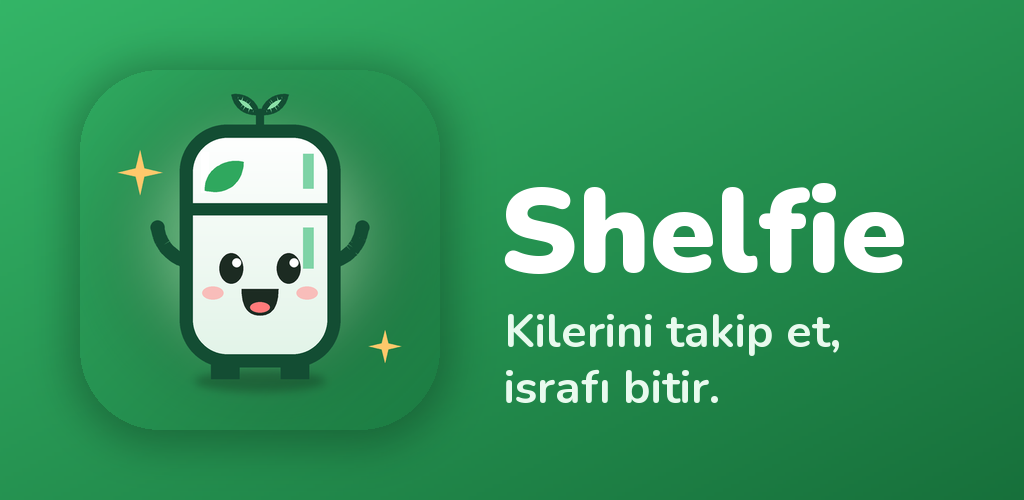
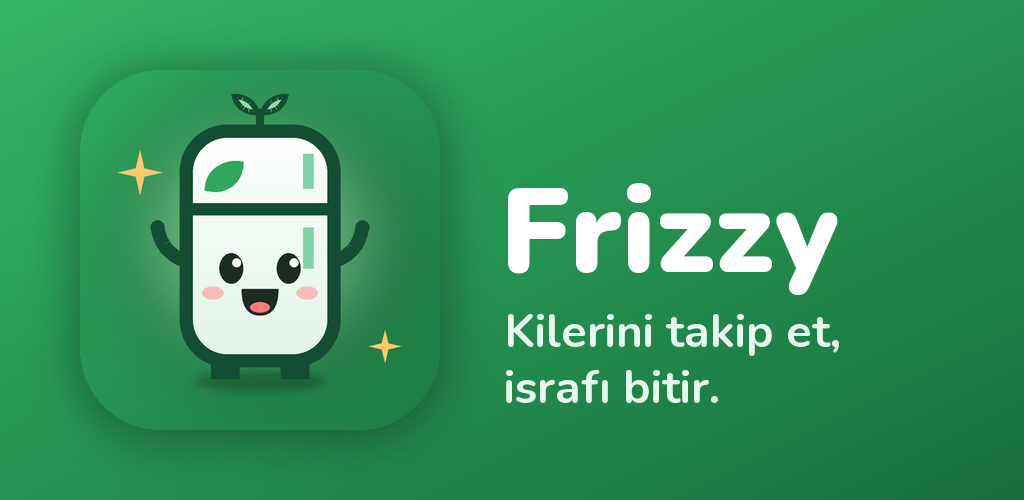
Rename the app to Frizzy
The app, Premium, widget, invite message and the web pages (home,
privacy, invite, panel, admin) now say Frizzy, after the mascot: Shelfie
is crowded on Play and taken as a Turkish mark. The feature graphic shows
the new name. The package id and code names stay as they are.

Changed region(s): [[0.4688, 0.36, 0.9062, 0.6], [0.5, 0.36, 0.5312, 0.39]]

diff --git a/backend/src/pages/privacy.ts b/backend/src/pages/privacy.ts
@@ -8,7 +8,7 @@ export const PRIVACY_HTML = `<!doctype html>
 <head>
 <meta charset="utf-8">
 <meta name="viewport" content="width=device-width, initial-scale=1">
-<title>Shelfie · Gizlilik politikası</title>
+<title>Frizzy · Gizlilik politikası</title>
 <style>
 	:root { --bg: #fff9f2; --ink: #2a2420; --muted: #7a6f66; --accent: #23974f; --line: #efe5d8; }
 	@media (prefers-color-scheme: dark) { :root { --bg: #15120f; --ink: #f6eee6; --muted: #b5a99c; --accent: #5bd48a; --line: #3a332c; } }
@@ -24,7 +24,7 @@ export const PRIVACY_HTML = `<!doctype html>
 <h1>Gizlilik politikası</h1>
 <p class="muted">Son güncelleme: 20 Ekim 2026</p>
 
-<p>Shelfie, evdeki yiyeceklerini takip edip israfı azaltman için var. Bu sayfa hangi verileri neden işlediğimizi anlatır. Kısaca: hesap açmadan kullanırsan verilerin yalnızca telefonunda kalır; reklam ya da veri satışı yoktur.</p>
+<p>Frizzy, evdeki yiyeceklerini takip edip israfı azaltman için var. Bu sayfa hangi verileri neden işlediğimizi anlatır. Kısaca: hesap açmadan kullanırsan verilerin yalnızca telefonunda kalır; reklam ya da veri satışı yoktur.</p>
 
 <h2>Telefonunda kalanlar</h2>
 <p>Kilerin, alışveriş listen, tariflerin, haftalık planın ve ayarların telefonundaki uygulama veritabanında tutulur. Çektiğin fotoğraflar uygulamanın kendi klasöründe saklanır; tarih okutmak için çekilenler okunduktan sonra silinir. Paketteki tarih telefonun içinde (Google ML Kit ile) okunur, fotoğraf hiçbir yere gönderilmez.</p>
@@ -45,7 +45,7 @@ export const PRIVACY_HTML = `<!doctype html>
 <p>Uygulamada Ayarlar → Hesap ve senkronizasyon → Hesabı sil ya da web panelindeki "Hesabımı sil" ile hesabın ve sunucudaki tüm verilerin hemen silinir. Telefondaki veriler uygulamayı kaldırınca silinir. Silinen kayıtların izleri en geç bir yılda temizlenir.</p>
 
 <h2>Çocuklar</h2>
-<p>Shelfie 13 yaşından küçükler için tasarlanmamıştır ve bilerek onlardan veri toplamayız.</p>
+<p>Frizzy 13 yaşından küçükler için tasarlanmamıştır ve bilerek onlardan veri toplamayız.</p>
 
 <h2>İletişim</h2>
 <p>Sorular ve silme talepleri için Google Play sayfamızdaki geliştirici e-posta adresine yazabilirsin.</p>
@@ -55,7 +55,7 @@ export const PRIVACY_HTML = `<!doctype html>
 <h1 lang="en">Privacy policy</h1>
 <p class="muted" lang="en">Last updated: 20 October 2026</p>
 <div lang="en">
-<p>Shelfie helps you track the food at home and waste less. Without an account your data stays on your phone. There are no ads and no data sales.</p>
+<p>Frizzy helps you track the food at home and waste less. Without an account your data stays on your phone. There are no ads and no data sales.</p>
 <h2>On your phone</h2>
 <p>Your pantry, shopping list, recipes, weekly plan and settings live in the app's database on your phone. Photos stay in the app's own folder; photos taken to read a date are deleted once read. Printed dates are read on the device (Google ML Kit) and never uploaded.</p>
 <h2>AI scans and recipes</h2>
@@ -67,7 +67,7 @@ export const PRIVACY_HTML = `<!doctype html>
 <h2>Deletion</h2>
 <p>Settings → Account & sync → Delete account in the app, or "Delete my account" in the web panel, deletes your account and all its server data at once. Data on the phone is removed when you uninstall the app. Traces of deleted records are purged within a year.</p>
 <h2>Children</h2>
-<p>Shelfie is not designed for children under 13 and we do not knowingly collect their data.</p>
+<p>Frizzy is not designed for children under 13 and we do not knowingly collect their data.</p>
 <h2>Contact</h2>
 <p>For questions or deletion requests, write to the developer email on our Google Play page.</p>
 </div>

diff --git a/backend/src/landing.ts b/backend/src/landing.ts
@@ -1,5 +1,5 @@
 /**
- * Served at `GET /`: the public front door. It says what Shelfie is and leads to the web panel
+ * Served at `GET /`: the public front door. It says what Frizzy is and leads to the web panel
  * (`/panel`, for signed-in users) and the privacy policy. Colours follow the app's theme.
  */
 export const LANDING_HTML = `<!doctype html>
@@ -7,8 +7,8 @@ export const LANDING_HTML = `<!doctype html>
 <head>
 <meta charset="utf-8">
 <meta name="viewport" content="width=device-width, initial-scale=1">
-<title>Shelfie</title>
-<meta name="description" content="Shelfie: mutfağındakileri çöpe atmak yerine yemene yardım eden uygulama.">
+<title>Frizzy</title>
+<meta name="description" content="Frizzy: mutfağındakileri çöpe atmak yerine yemene yardım eden uygulama.">
 <style>
 	:root {
 		--bg: #fff9f2;
@@ -71,7 +71,7 @@ export const LANDING_HTML = `<!doctype html>
 <main>
 	<section class="hero">
 		<!-- Frizzy as on the app icon: cheering, with a sprout. -->
-		<svg viewBox="22 12 64 80" role="img" aria-label="Frizzy, Shelfie'nin buzdolabı maskotu">
+		<svg viewBox="22 12 64 80" role="img" aria-label="Frizzy, buzdolabı maskotu">
 			<ellipse cx="54" cy="86" rx="16" ry="2.6" fill="#000" opacity="0.12"/>
 			<path d="M36.5,57Q30,55 29,48.5 M71.5,57Q78,55 79,48.5" stroke="#134d33" stroke-width="3.4" stroke-linecap="round" fill="none"/>
 			<path d="M42,80h7v5.5h-7z M59,80h7v5.5h-7z" fill="#134d33"/>
@@ -93,7 +93,7 @@ export const LANDING_HTML = `<!doctype html>
 			<path d="M30,33l1.2,3.3l3.3,1.2l-3.3,1.2l-1.2,3.3l-1.2,-3.3l-3.3,-1.2l3.3,-1.2z" fill="#ffc86b"/>
 		</svg>
 		<div>
-			<h1>Shelfie</h1>
+			<h1>Frizzy</h1>
 			<p class="tagline">Merhaba, ben Frizzy! Aldıklarını çöpe atmak yerine yemene yardım ederim.</p>
 			<div class="actions">
 				<a class="button" href="/panel">Web panele gir</a>
@@ -125,7 +125,7 @@ export const LANDING_HTML = `<!doctype html>
 		</article>
 	</section>
 
-	<footer>Shelfie bir Android uygulamasıdır. Verilerini web panelden de görebilir, düzenleyebilir ya da silebilirsin. <a href="/privacy">Gizlilik politikası</a></footer>
+	<footer>Frizzy bir Android uygulamasıdır. Verilerini web panelden de görebilir, düzenleyebilir ya da silebilirsin. <a href="/privacy">Gizlilik politikası</a></footer>
 </main>
 </body>
 </html>`;

diff --git a/backend/src/pages/join.ts b/backend/src/pages/join.ts
@@ -6,7 +6,7 @@ export const JOIN_ROUTE = /^\/join\/([A-HJ-KM-NP-Z2-9]{8})$/;
 /**
  * Served at `GET /join/<code>`: where the link in a family invite leads. On Android the button
  * opens the app straight at "join with this code" (shelfie://join?joinCode=...), or the Play
- * Store page when Shelfie isn't installed yet; elsewhere it shows the code and the steps.
+ * Store page when Frizzy isn't installed yet; elsewhere it shows the code and the steps.
  */
 export function joinPage(code: string): string {
 	const pkg = env.PLAY_PACKAGE_NAME ?? "com.nurdanpehlivan.shelfie";
@@ -19,7 +19,7 @@ export function joinPage(code: string): string {
 <head>
 <meta charset="utf-8">
 <meta name="viewport" content="width=device-width, initial-scale=1">
-<title>Shelfie · Aile daveti</title>
+<title>Frizzy · Aile daveti</title>
 <meta name="robots" content="noindex">
 <style>
 	:root { --bg: #fff9f2; --card: #ffffff; --ink: #2a2420; --muted: #6b5f55; --accent: #23974f; --accent-ink: #fff; --soft: #e6f5eb; --line: #f0e6d8; }
@@ -43,14 +43,14 @@ export function joinPage(code: string): string {
 <main>
 	<div class="card">
 		<div style="font-size: 3rem">👨👩👧</div>
-		<h1>Shelfie kilerine davet edildin</h1>
+		<h1>Frizzy kilerine davet edildin</h1>
 		<p>Aynı kileri, alışveriş listesini ve tarifleri birlikte kullanın.</p>
 		<div class="code">${pretty}</div>
-		<a class="button primary" href="${open}">Shelfie'de aç</a>
+		<a class="button primary" href="${open}">Frizzy'de aç</a>
 		<a class="button secondary" href="${play}">Google Play'den indir</a>
 	</div>
 	<ol>
-		<li>Shelfie'yi indir ve aç.</li>
+		<li>Frizzy'yi indir ve aç.</li>
 		<li>Ayarlar → Hesap'tan giriş yap ya da hesap oluştur.</li>
 		<li>Ayarlar → Aile paylaşımı'nda bu kodu girip "Katıl"a dokun.</li>
 	</ol>

diff --git a/backend/src/pages/admin.ts b/backend/src/pages/admin.ts
@@ -5,7 +5,7 @@ export const ADMIN_HTML = `<!doctype html>
 <meta charset="utf-8">
 <meta name="viewport" content="width=device-width, initial-scale=1">
 <meta name="robots" content="noindex">
-<title>Shelfie Yönetim</title>
+<title>Frizzy Yönetim</title>
 <style>
 	:root {
 		color-scheme: light;
@@ -125,7 +125,7 @@ export const ADMIN_HTML = `<!doctype html>
 <body>
 <main>
 	<section id="login" class="card" hidden>
-		<h1 style="margin:0 0 4px;font-size:1.3rem;color:var(--brand)">Shelfie Yönetim</h1>
+		<h1 style="margin:0 0 4px;font-size:1.3rem;color:var(--brand)">Frizzy Yönetim</h1>
 		<p class="secondary" style="margin:0 0 16px">Panele girmek için yönetici şifresini gir.</p>
 		<form id="login-form">
 			<input type="password" id="password" autocomplete="current-password" placeholder="Yönetici şifresi" required aria-label="Yönetici şifresi">
@@ -136,7 +136,7 @@ export const ADMIN_HTML = `<!doctype html>
 
 	<section id="dashboard" hidden>
 		<header>
-			<h1>Shelfie Yönetim</h1>
+			<h1>Frizzy Yönetim</h1>
 			<span class="muted" id="generated"></span>
 			<span class="spacer"></span>
 			<button id="refresh" type="button">Yenile</button>

diff --git a/backend/src/pages/panel.ts b/backend/src/pages/panel.ts
@@ -10,7 +10,7 @@ export const PANEL_HTML = `<!doctype html>
 <meta charset="utf-8">
 <meta name="viewport" content="width=device-width, initial-scale=1">
 <meta name="robots" content="noindex">
-<title>Shelfie Panel</title>
+<title>Frizzy Panel</title>
 <style>
 	:root {
 		color-scheme: light;
@@ -103,7 +103,7 @@ export const PANEL_HTML = `<!doctype html>
 <body>
 <main>
 	<section id="auth" class="card" hidden>
-		<h1>Shelfie</h1>
+		<h1>Frizzy</h1>
 		<p class="muted" id="auth-intro" style="margin:4px 0 0">Kilerini, alışveriş listeni ve tariflerini her yerden gör. Uygulamadaki hesabınla giriş yap.</p>
 		<form id="auth-form">
 			<input type="email" name="email" autocomplete="email" placeholder="E-posta" required aria-label="E-posta">
@@ -116,7 +116,7 @@ export const PANEL_HTML = `<!doctype html>
 
 	<section id="app" hidden>
 		<header>
-			<h1>Shelfie</h1>
+			<h1>Frizzy</h1>
 			<span class="muted" id="who"></span>
 			<span class="spacer"></span>
 			<button type="button" id="reload">Yenile</button>

diff --git a/backend/src/proxy.ts b/backend/src/proxy.ts
@@ -42,7 +42,7 @@ export async function handleProxy(request: Request, model: string, ctx: Executio
 	const { success } = await env.RATE_LIMITER.limit({ key: clientIp(request) });
 	if (!success) {
 		ctx.waitUntil(logUsage(request, model, 429, 0, undefined));
-		return error(429, "Too many requests to the Shelfie proxy");
+		return error(429, "Too many requests to the Frizzy proxy");
 	}
 
 	const feature = parseFeature(request.headers.get(FEATURE_HEADER));

diff --git a/core/data/src/main/java/com/shelfie/app/data/remote/openfoodfacts/OpenFoodFactsApi.kt b/core/data/src/main/java/com/shelfie/app/data/remote/openfoodfacts/OpenFoodFactsApi.kt
@@ -21,7 +21,7 @@ interface OpenFoodFactsApi {
 
     companion object {
         const val BASE_URL = "https://world.openfoodfacts.org/"
-        const val USER_AGENT = "Shelfie/1.0 (Android pantry app)"
+        const val USER_AGENT = "Frizzy/1.0 (Android pantry app)"
 
         /** Names come per language ("product_name_de"), so the request asks for the user's. */
         fun fieldsFor(language: String): String =
